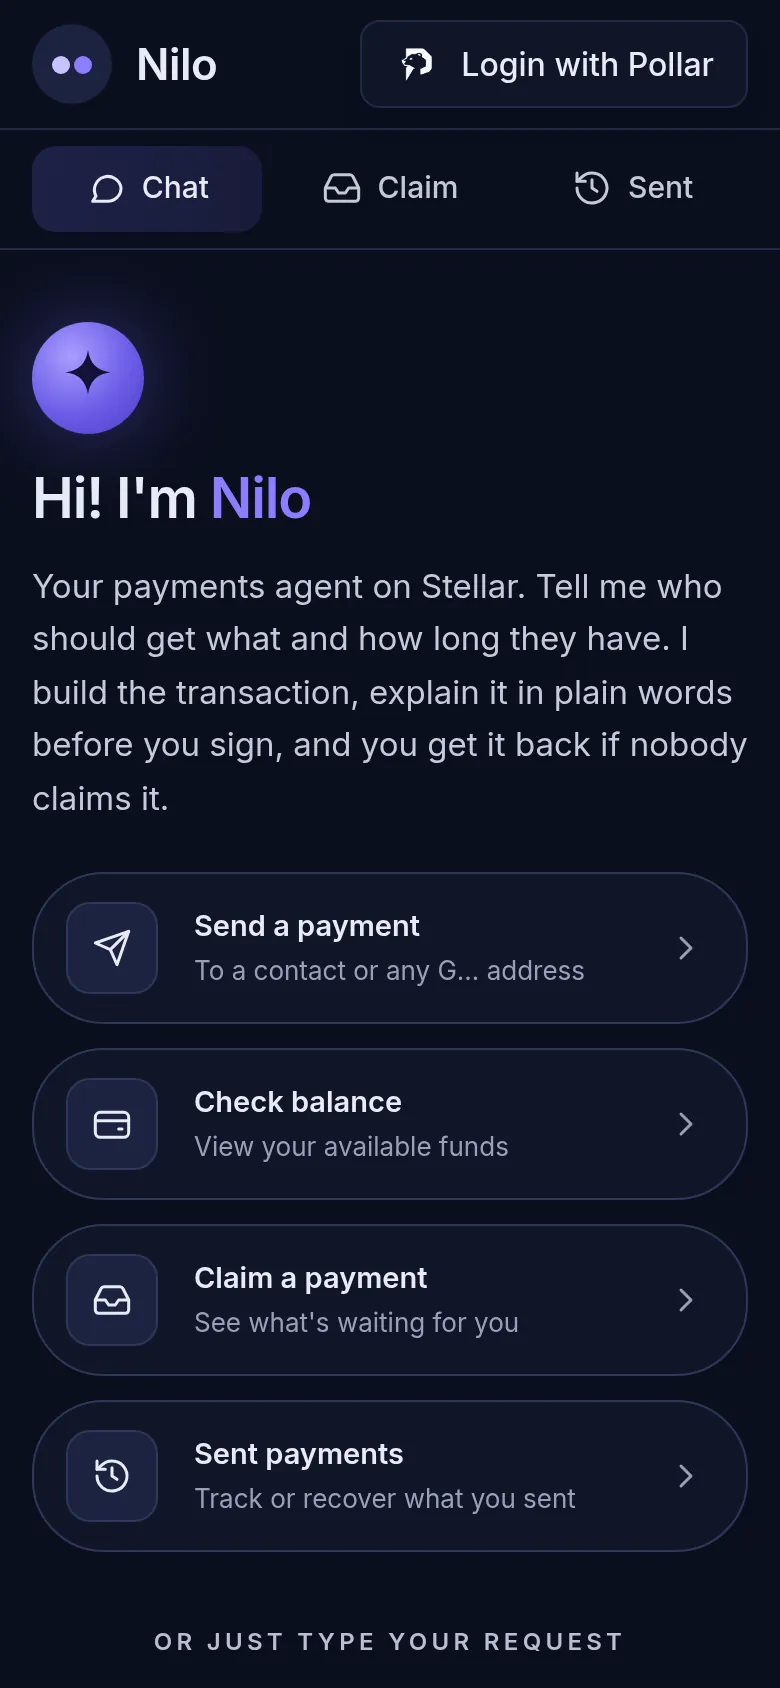
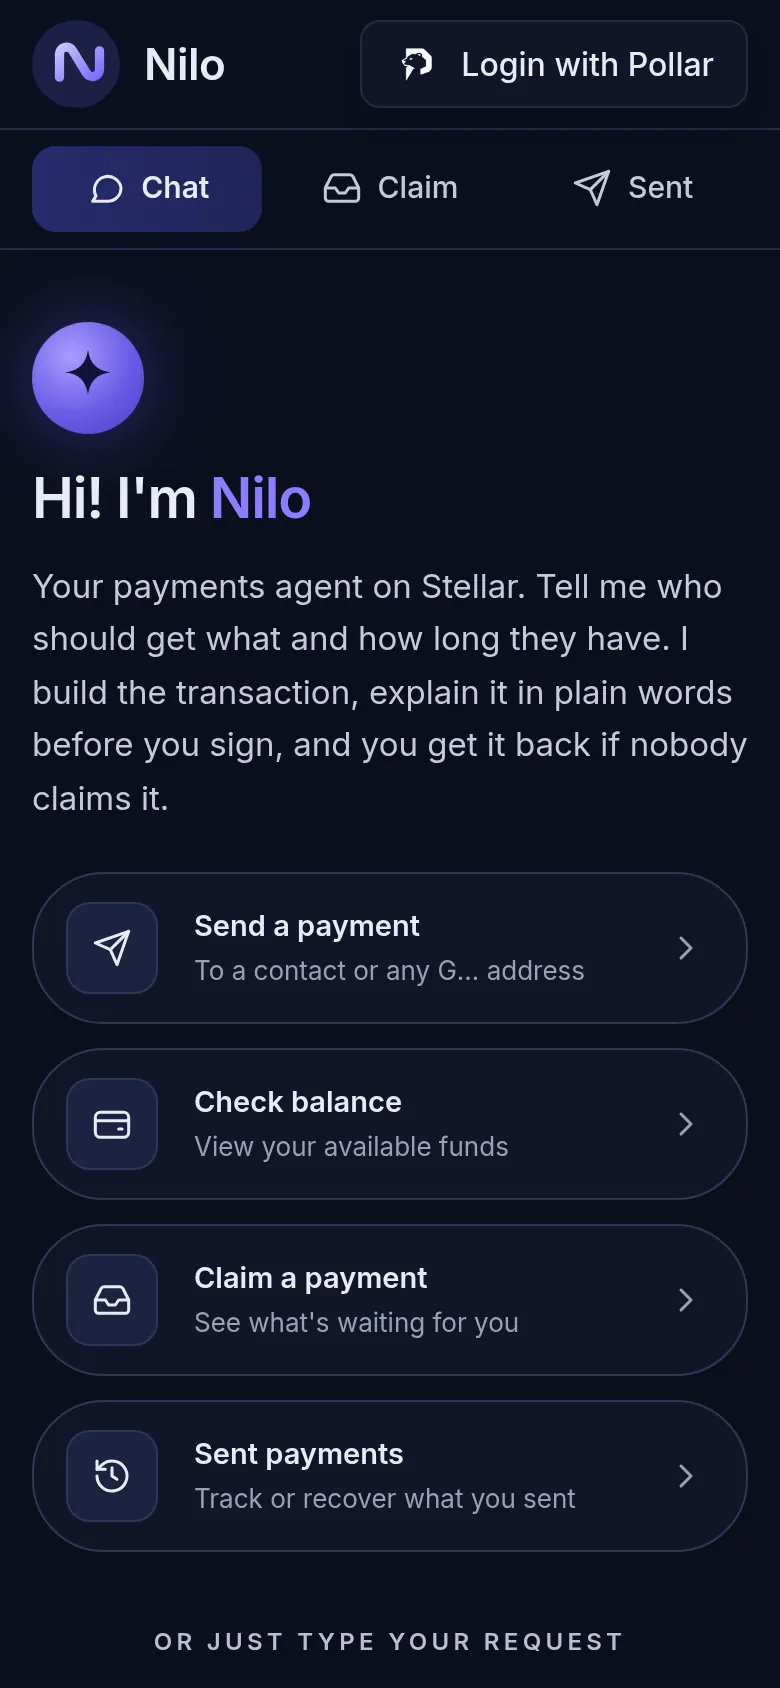
Refresh README screenshots and add the Claim page

Changed region(s): [[0.0308, 0.0, 0.3385, 0.154], [0.7385, 0.0924, 0.8, 0.1232]]

diff --git a/README.md b/README.md
@@ -148,6 +148,10 @@ The demo uses the nicknames `alice` (sender), `maria` (recipient) and `bob`, all
 | 3. Claim | As the recipient, open **Claim** before the deadline. | The explanation says Nilo's sponsor pays the fee and the trustline reserve. The balance is claimed and Maria's XLM is unchanged. |
 | 4. Recover | Send to an address nobody controls, wait for the deadline, open **Sent**. | A **Recover** action that returns the funds to you. |
 
+The **Claim** page, as the recipient sees it. It refreshes on its own, so a new payment shows up without a reload:
+
+![Claim page: payments waiting for the recipient, an empty state and how claiming works](docs/screenshots/claim.webp)
+
 Helper scripts:
 
 | Command | What it does |
